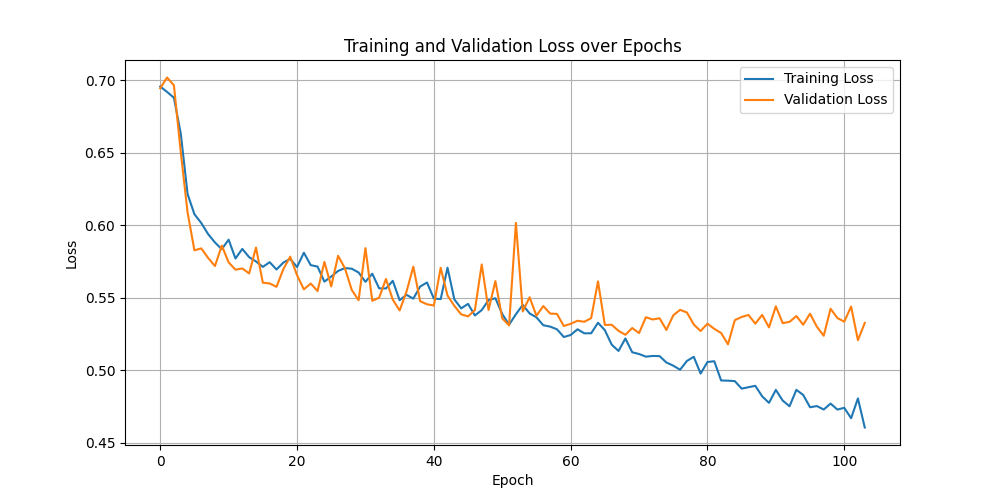
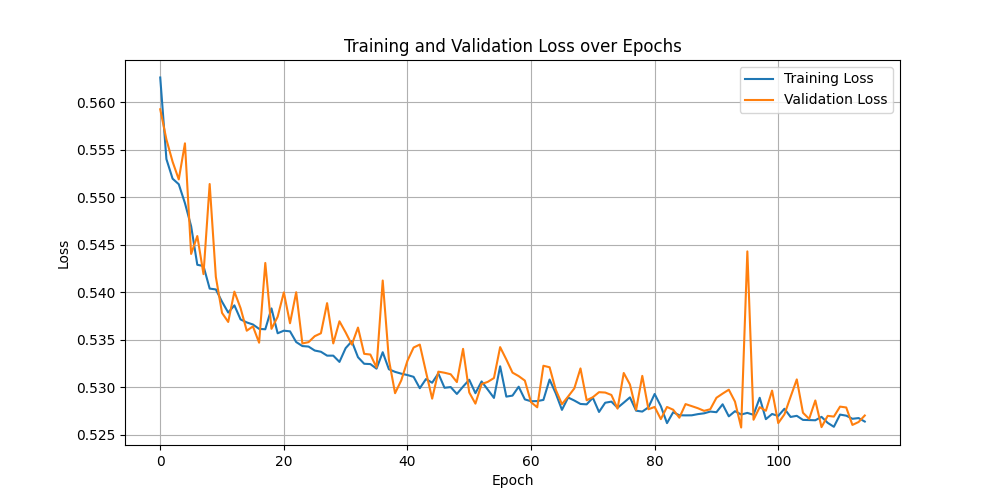
Error with show RR interval

diff --git a/preprocess.py b/preprocess.py
@@ -5,6 +5,37 @@ import os
 from sklearn.model_selection import train_test_split
 from scipy.signal import filtfilt, ellip
 from remove_etopic import remove_ectopic_beats
+from visualization import plot_ecg_segment
+
+def segment_rr_intervals_with_labels(rr_intervals, ground_truth, target_sum=5.0, tolerance=1e-2):
+    rr_segments = []
+    label_segments = []
+
+    current_rr_segment = []
+    current_label_segment = []
+    current_sum = 0.0
+
+    for rr, label in zip(rr_intervals, ground_truth):
+        print("rr: ", rr)
+        if current_sum + rr <= target_sum + tolerance:
+            current_rr_segment.append(rr)
+            current_label_segment.append(label)
+            current_sum += rr
+        else:
+            if current_rr_segment:
+                plot_ecg_segment(current_rr_segment, "N")
+                rr_segments.append(current_rr_segment)
+                label_segments.append(current_label_segment)
+
+            current_rr_segment = [rr]
+            current_label_segment = [label]
+            current_sum = rr
+
+    if current_rr_segment:
+        rr_segments.append(current_rr_segment)
+        label_segments.append(current_label_segment)
+
+    return rr_segments, label_segments
 
 def extractData(ann_atr, ann_qrs, ecg):
     # ann.sample contains the indices of the QRS annotations
@@ -37,13 +68,18 @@ def extractData(ann_atr, ann_qrs, ecg):
         else:
             ground_truth_full[ground_idx1:ground_idx2] = 0
     ground_truth_filtered = ground_truth_full[kept_indices]
-    modulus = len(RR_intervals_remove_etopic) % 128
-    segment =  RR_intervals_remove_etopic[:len(RR_intervals_remove_etopic) - modulus]
-    segment_128 = segment.reshape((-1, 128))
-    ground_truth_segment = ground_truth_filtered[:len(ground_truth_filtered) - modulus]
-    reshaped_truth = ground_truth_segment.reshape((-1,128))
-    reshaped_truth = np.sum(reshaped_truth, axis=1) > (128 / 2)
-    return segment_128, reshaped_truth, RR_intervals_remove_etopic
+
+    segment, label_segment = segment_rr_intervals_with_labels(RR_intervals_remove_etopic, ground_truth_filtered)
+    # print("segment: ", len(segment))
+    # print("****: ", label_segment)
+    # print("label_segment: ", len(label_segment))
+    for i in range(len(label_segment)):
+        small_label = label_segment[i]
+        if  np.sum(small_label) >= (len(small_label)/2):
+            label_segment[i] = 1
+        else:
+            label_segment[i] = 0
+    return segment, label_segment, RR_intervals_remove_etopic
 
 def elliptical_bandpass_filter(segment, fs, order=10, lowcut=0.5, highcut=50):
     """
@@ -81,22 +117,22 @@ def load_or_process_ecg_data(data_path="mit-bih-atrial-fibrillation-database-1.0
     train_dir = os.path.join(output_dir, "train")
     test_dir = os.path.join(output_dir, "test")
     val_dir = os.path.join(output_dir, "val")
-    train_file = os.path.join(train_dir, "train_data.npz")
-    test_file = os.path.join(test_dir, "test_data.npz")
-    val_file = os.path.join(val_dir, "val_data.npz")
+    train_file = os.path.join(train_dir, "train.npz")
+    test_file = os.path.join(test_dir, "test.npz")
+    val_file = os.path.join(val_dir, "val.npz")
 
-    # Check if data is already processed
-    if os.path.exists(train_file) and os.path.exists(test_file) and os.path.exists(val_file):
-        print("Processed data found. Loading data...")
+    # # Check if data is already processed
+    # if os.path.exists(train_file) and os.path.exists(test_file) and os.path.exists(val_file):
+    #     print("Processed data found. Loading data...")
 
-        train_data = np.load(train_file)
-        test_data = np.load(test_file)
-        val_data = np.load(val_file)
-        X_train, y_train = train_data["all_segments"], train_data["all_labels"]
-        X_test, y_test = test_data["all_segments"], test_data["all_labels"]
-        X_val, y_val = test_data["all_segments"], test_data["all_labels"]
-        print("Data loaded successfully.")
-        return X_train, y_train, X_test, y_test, X_val, y_val
+    #     train_data = np.load(train_file, allow_pickle=True)
+    #     test_data = np.load(test_file, allow_pickle=True)
+    #     val_data = np.load(val_file, allow_pickle=True)
+    #     X_train, y_train = train_data["all_segments"], train_data["all_labels"]
+    #     X_test, y_test = test_data["all_segments"], test_data["all_labels"]
+    #     X_val, y_val = test_data["all_segments"], test_data["all_labels"]
+    #     print("Data loaded successfully.")
+    #     return X_train, y_train, X_test, y_test, X_val, y_val
 
     print("Processed data not found. Processing raw ECG data...")
 
@@ -107,7 +143,7 @@ def load_or_process_ecg_data(data_path="mit-bih-atrial-fibrillation-database-1.0
     
 
     manual_label = []
-    segment128 = []
+    segment5second = []
     record_files = [f.split('.')[0] for f in os.listdir(data_path) if f.endswith('.dat')]
     for record_name in record_files:
         hea_path = os.path.join(data_path, record_name + ".hea")
@@ -131,25 +167,37 @@ def load_or_process_ecg_data(data_path="mit-bih-atrial-fibrillation-database-1.0
         ann_qrs = wfdb.rdann(os.path.join(data_path, record_name), 'qrs')
         ecg1 = record1.p_signal.flatten()
         fs = record1.fs # frequency
-        segment_128, reshaped_truth, RR_intervals = extractData(ann_atr, ann_qrs, ecg1)
+        segment_5s, label_5s, RR_intervals = extractData(ann_atr, ann_qrs, ecg1)
         
-        segment128.append(segment_128)
-        manual_label.extend(reshaped_truth)
-        # print("segment_128: ", segment_128.shape)
-        print("reshaped_truth: ", reshaped_truth)
+        segment5second.extend(segment_5s)
+        manual_label.extend(label_5s)
+    #     # print("segment_128: ", segment_128.shape)
+    #     print("reshaped_truth: ", reshaped_truth)
 
         
         
         record2 = wfdb.rdrecord(os.path.join(data_path, record_name), channels=[1]) 
         ecg2 = record2.p_signal.flatten()
-        segment_128, reshaped_truth, RR_intervals = extractData(ann_atr, ann_qrs, ecg2)
+        segment_5s, label_5s, RR_intervals = extractData(ann_atr, ann_qrs, ecg2)
         # print("!!!!! segment: ", segment_128.shape)
-        segment128.append(segment_128)
-        manual_label.extend(reshaped_truth)
+        segment5second.extend(segment_5s)
+        manual_label.extend(label_5s)
         
-    segment128 = np.vstack(segment128)
-    print("segment128: ", segment128.shape)  
-    print("manual_label: ", len(manual_label) )
+    # # segment5second = np.vstack(segment5second)
+    # print("segment5second: ", len(segment5second)) 
+    # print("manual_label: ", len(manual_label) )
+    # np.savez('segments_labels.npz',
+    #      segment5second=np.array(segment5second, dtype=object),
+    #      manual_label=np.array(manual_label))
+def classfify_data():
+    data = np.load("segments_labels.npz", allow_pickle=True)
+    # Access arrays
+    segment5second = data['segment5second']
+    manual_label = data['manual_label']
+
+    # Example: print the first segment and label
+    print("First segment:", segment5second[0])
+    print("First label:", manual_label[0])
     all_AF_labels = []
     all_AF_segments = []
     all_non_labels = []
@@ -157,22 +205,22 @@ def load_or_process_ecg_data(data_path="mit-bih-atrial-fibrillation-database-1.0
     for i in range(len(manual_label)):
         if manual_label[i]:
             all_AF_labels.append(1)
-            all_AF_segments.append(segment128[i,:])
+            all_AF_segments.append(segment5second[i])
         else:
             all_non_labels.append(0)
-            all_non_segments.append(segment128[i,:])
+            all_non_segments.append(segment5second[i])
   
-    np.savez('af_data.npz',
+    np.savez('af_data_2.npz',
          all_AF_labels=np.array(all_AF_labels),
-         all_AF_segments=np.array(all_AF_segments),
+         all_AF_segments=np.array(all_AF_segments, dtype=object),
          all_non_labels=np.array(all_non_labels),
-         all_non_segments=np.array(all_non_segments))
+         all_non_segments=np.array(all_non_segments, dtype=object))
     # Xử lý file af_data.npz
 def read_af_data():
     all_segments = []
     all_labels = []
-    data_dir = "af_data.npz"
-    data = np.load(data_dir)
+    data_dir = "af_data_2.npz"
+    data = np.load(data_dir, allow_pickle=True)
     all_AF_labels = data["all_AF_labels"]
     all_AF_segments = data["all_AF_segments"]
     all_non_labels = data["all_non_labels"]
@@ -196,7 +244,7 @@ def read_af_data():
     all_labels.extend(all_AF_labels)
     
     # Convert lists to NumPy arrays
-    all_segments = np.array(all_segments)  # Shape: (num_segments, 5*fs, 2)
+    all_segments = np.array(all_segments, dtype=object)  # Shape: (num_segments, 5*fs, 2)
     all_labels = np.array(all_labels)
     print("all_segments: ", all_segments.shape)
     print("all_labels: ", all_labels.shape)
@@ -243,5 +291,6 @@ if __name__ == "__main__":
     # print("N test:",len(num_N))
     # print("A test:",len(num_A))
 
-    # load_or_process_ecg_data()
-    read_af_data()
+    load_or_process_ecg_data()
+    # classfify_data()
+    # read_af_data()

diff --git a/visualization.py b/visualization.py
@@ -4,12 +4,12 @@ import os
 import matplotlib.pyplot as plt
 
 from SWT import compute_swt
-from preprocess import load_or_process_ecg_data
+# from preprocess import load_or_process_ecg_data
 
 
 def plot_ecg_segment(segment, label, fs=250):
     """Randomly selects an ECG segment and plots it."""
-    time_axis = np.linspace(0, len(segment) / fs, len(segment))
+    time_axis = np.linspace(0, sum(segment), len(segment))
     
     plt.figure(figsize=(10, 4))
     plt.plot(time_axis, segment, label=f"Label: {label}")
@@ -36,20 +36,20 @@ def plot_swt_coeffs(coeff_matrix, time):
     plt.tight_layout()
     plt.show()
     
-if __name__ == "__main__":
-    X_train, y_train, X_test, y_test = load_or_process_ecg_data()
+# if __name__ == "__main__":
+#     X_train, y_train, X_test, y_test,_,_ = load_or_process_ecg_data()
     
-    for i in range(len(y_train)):
-        if y_train[i] == 0:
-            labelN_train = i
-            break
-    for i in range(len(y_train)):
-        if y_train[i] == 1:
-            labelA_train = i
+#     for i in range(len(y_train)):
+#         if y_train[i] == 0:
+#             labelN_train = i
+#             break
+#     for i in range(len(y_train)):
+#         if y_train[i] == 1:
+#             labelA_train = i
            
     
-    # plot_ecg_segment(X_train[labelN_train], "N")   
-    # plot_ecg_segment(X_train[labelA_train], "A")  
+#     plot_ecg_segment(X_train[labelN_train], "N")   
+#     plot_ecg_segment(X_train[labelA_train], "A")  
      
     # for i in range(len(y_test)):
     #     if y_test[i] == 0:
@@ -62,17 +62,17 @@ if __name__ == "__main__":
     # plot_ecg_segment(X_test[labelN_test], "N")   
     # plot_ecg_segment(X_test[labelA_test], "A")   
     
-    coeff_matrix_normalized = compute_swt(X_train[labelN_train], J=6, wavelet='db5')
-    num_samples = 256
-    # Find the overall max and min values
-    max_value = np.max(coeff_matrix_normalized)
-    min_value = np.min(coeff_matrix_normalized)
+    # coeff_matrix_normalized = compute_swt(X_train[labelN_train], J=6, wavelet='db5')
+    # num_samples = 256
+    # # Find the overall max and min values
+    # max_value = np.max(coeff_matrix_normalized)
+    # min_value = np.min(coeff_matrix_normalized)
 
-    print(f"Max value: {max_value}")
-    print(f"Min value: {min_value}")
-    # print("coeff_matrix_normalized: ", coeff_matrix_normalized)
-    time = time = np.linspace(0, 1, num_samples)
-    plot_swt_coeffs(coeff_matrix_normalized, time)
+    # print(f"Max value: {max_value}")
+    # print(f"Min value: {min_value}")
+    # # print("coeff_matrix_normalized: ", coeff_matrix_normalized)
+    # time = time = np.linspace(0, 1, num_samples)
+    # plot_swt_coeffs(coeff_matrix_normalized, time)
     
     
     

diff --git a/test_model.py b/test_model.py
@@ -21,7 +21,7 @@ def load_accuracy(folder_path,dataset_128):
     # Load test dataset
     get_dataset = CustomDataset(data_dir=dataset_128)  # Update with actual test dataset
     get_loader = DataLoader(get_dataset, batch_size=32, shuffle=False, num_workers=4)
-    H_in, W_in = 12, 192
+    H_in, W_in = 12, 64
     list_accs = []
     epochs = []
 
@@ -58,7 +58,7 @@ def load_test_performance():
     device = torch.device("cuda" if torch.cuda.is_available() else "cpu")
     test_dataset = CustomDataset(data_dir='dataset_128/test/test.npz')  # Update with actual test dataset
     test_loader = DataLoader(test_dataset, batch_size=32, shuffle=False, num_workers=4)
-    H_in, W_in = 12, 192
+    H_in, W_in = 12, 64
     CHECKPOINT_PATH = "checkpoints_128/best_model.pth"
     # Load best model checkpoint
     if os.path.exists(CHECKPOINT_PATH):

diff --git a/performance.py b/performance.py
@@ -64,11 +64,12 @@ if __name__ == "__main__":
     # H_in, W_in = 12, 1280
     # H_in, W_in = 12, 256
     
-    H_in, W_in = 12, 192
+    H_in, W_in = 12, 64
 
     # Load best model checkpoint
     if os.path.exists(CHECKPOINT_PATH):
         model = load_model(CHECKPOINT_PATH, H_in, W_in, device)
-        sensitivity, specificity,_ = evaluate_model(model, test_loader, device)
+        sensitivity, specificity,accuracy= evaluate_model(model, test_loader, device)
+        print("sensitivity, specificity,accuracy: ", sensitivity, specificity,accuracy)
     else:
         print(f"Checkpoint not found at {CHECKPOINT_PATH}")

diff --git a/remove_etopic.py b/remove_etopic.py
@@ -38,8 +38,8 @@ def remove_ectopic_beats(rr_intervals, return_indices=False):
 
     clean_rr = np.array(clean_rr)
     kept_indices = np.array(kept_indices)
-    print("kept_indices: ", kept_indices)
-    print("len of kept_indices: ", len(kept_indices))
+    # print("kept_indices: ", kept_indices)
+    # print("len of kept_indices: ", len(kept_indices))
     
     if return_indices:
         return clean_rr, kept_indices

diff --git a/dataset_loader.py b/dataset_loader.py
@@ -14,7 +14,7 @@ class CustomDataset(Dataset):
         self.transform = transform
         
         # Load the npz file containing 'all_segments' and 'all_labels'
-        data = np.load(data_dir)
+        data = np.load(data_dir, allow_pickle=True)
         print(data.files)  # Print the keys in the .npz file to understand its structure
         
         # Assuming 'all_segments' and 'all_labels' are the correct keys

diff --git a/train_model.py b/train_model.py
@@ -129,7 +129,7 @@ if __name__ == "__main__":
     train_loader = DataLoader(train_dataset, batch_size=32, shuffle=True, num_workers=4)
     val_loader = DataLoader(val_dataset, batch_size=32, shuffle=True, num_workers=4)
     # H_in, W_in = 12, 1280
-    H_in, W_in = 12, 192
+    H_in, W_in = 12, 64
     model = DCNN(H_in, W_in)
     
     criterion = nn.CrossEntropyLoss()
